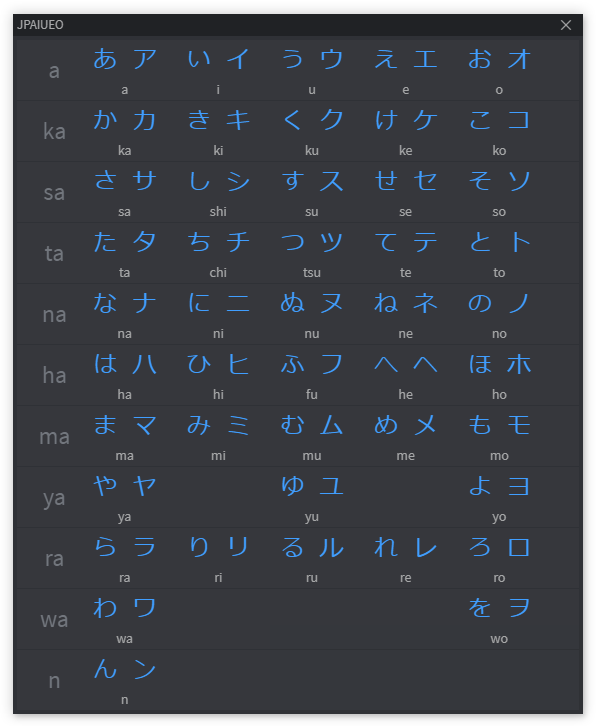
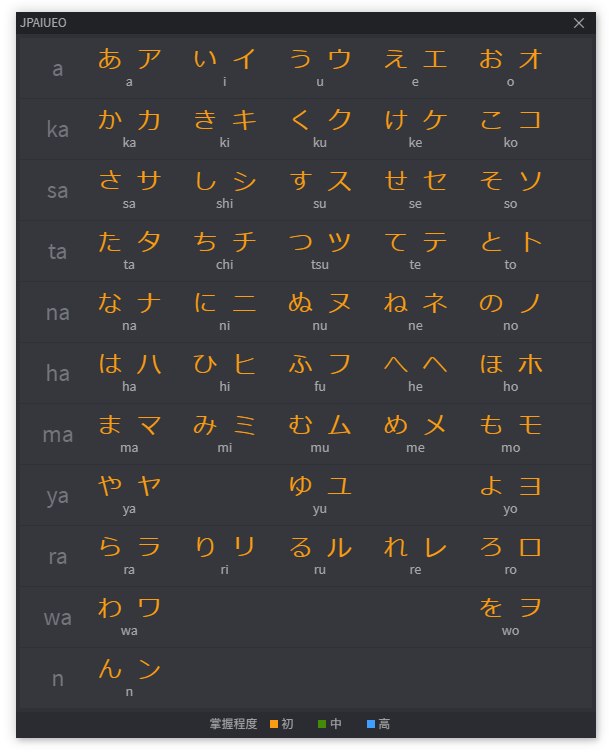
update readme

diff --git a/README.md b/README.md
@@ -14,13 +14,21 @@
 Hiragana and Katakana desktop learning tools
 </p>
 
-#### Soft Image  
+## Soft Image  
 <img  src="./docs/images/soft.png" alt="electron-vue">
 <img  src="./docs/images/full.png" alt="electron-vue">
 
-#### Build Setup
+## 功能
+### 掌握程度的记录功能
+在主窗口切换一个新的音，如果点了听语音则说明未掌握，如直接跳过则认为掌握，最终会以三个等级显示在50音图中，清晰标示你掌握和未掌握的音。  
+建议屏蔽一个平假名或片假名进行掌握，否则你可能因为记忆了这个音的平假名或片假名其中之一，而认为另一个形态也是掌握的。
 
-``` bash
+## Update
+##
+
+## Build Setup
+
+``` bash 
 # install dependencies
 npm install
 
